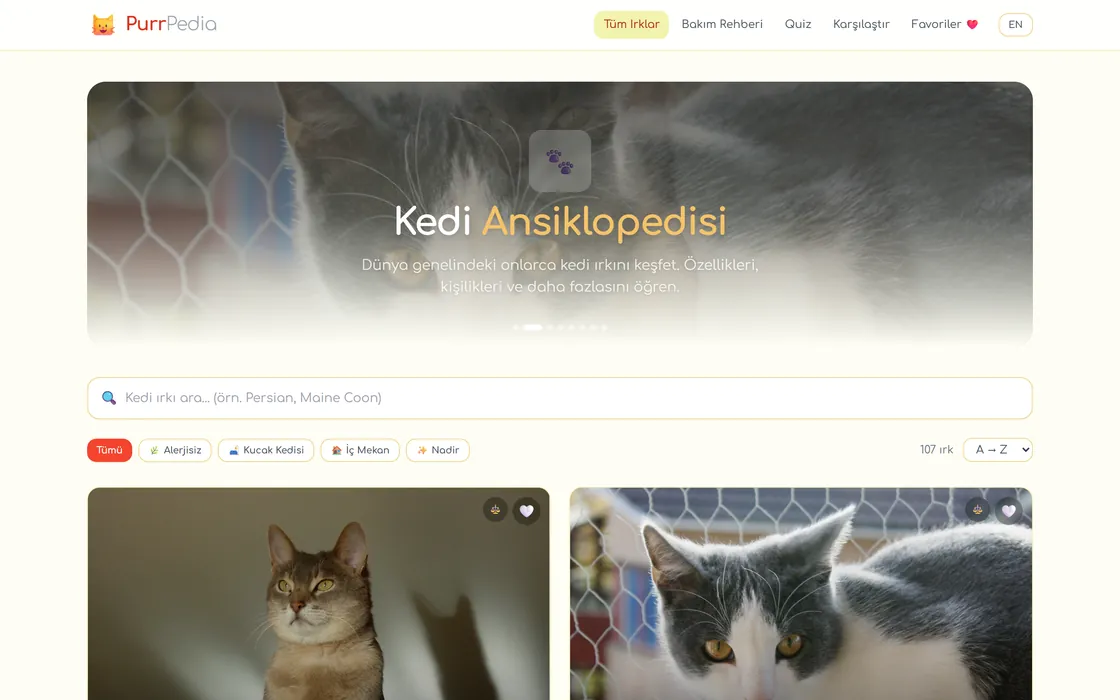
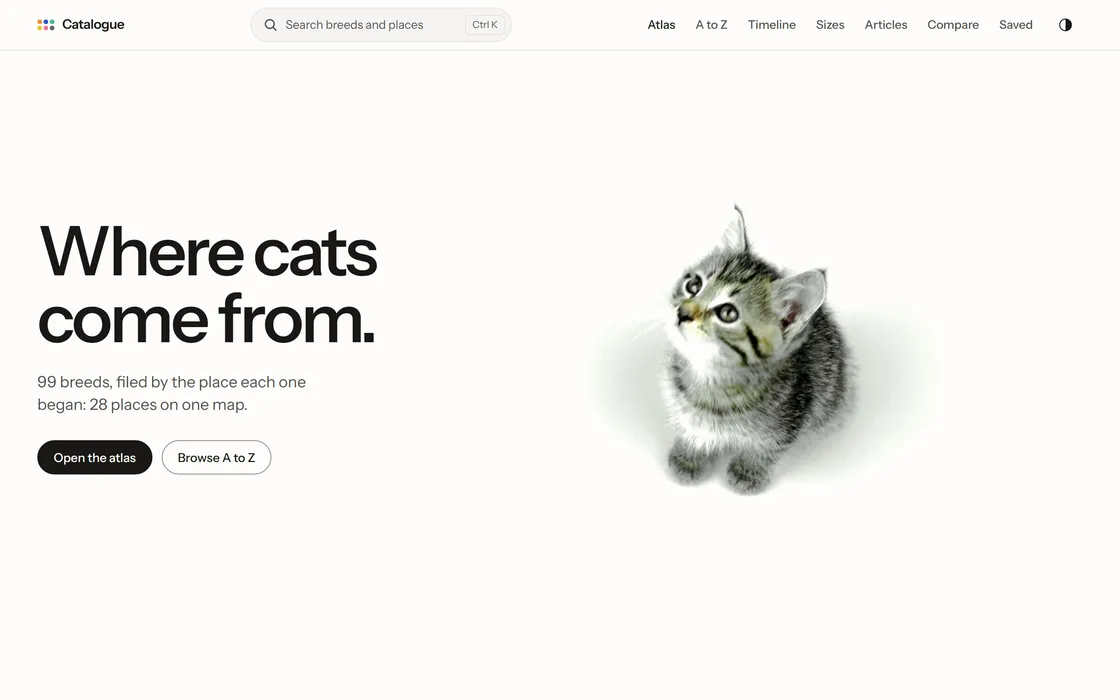
List Purr Pedia as Catalogue

diff --git a/lib/projects.ts b/lib/projects.ts
@@ -320,16 +320,16 @@ export const PROJECTS: Project[] = [
   },
   {
     id: 'purrpedia',
-    name: 'Purr Pedia',
-    kind: { en: 'Reference app', tr: 'Başvuru uygulaması' },
+    name: 'CATALOGUE',
+    kind: { en: 'Breed atlas', tr: 'Irk atlası' },
     standing: 'concept',
     blurb: {
-      en: 'Cat breed encyclopedia with search, side-by-side comparison and a quiz. Installable.',
-      tr: 'Arama, yan yana karşılaştırma ve test içeren kedi ırkları ansiklopedisi. Kurulabilir.',
+      en: 'Cat breeds filed by where each began: a map that tours six regions as you scroll, a timeline and sourced articles.',
+      tr: 'Kedi ırkları, çıktıkları yere göre dizili: kaydırdıkça altı bölgeyi gezen bir harita, zaman çizelgesi ve kaynaklı yazılar.',
     },
-    stack: ['React 18', 'TypeScript', 'Redux Toolkit', 'PWA'],
+    stack: ['Next.js 16', 'React 19', 'TypeScript', 'Tailwind CSS 4', 'Zustand'],
     started: '2026-03',
-    rev: 'A',
+    rev: 'B',
     live: 'https://purr-pedia.vercel.app/',
     code: gh('Purr-Pedia'),
   },

diff --git a/lib/content.ts b/lib/content.ts
@@ -244,8 +244,8 @@ export const PATH_SOFTWARE: PathRow[] = [
   {
     date: { en: '2026-10', tr: '2026-10' },
     text: {
-      en: 'Rainbow Design running on its own domain, rainbowdesign.com.tr. Book-Shelf rebuilt as Shelfmark, Psychologist Services as FIFTY.',
-      tr: 'Rainbow Design kendi alan adında çalışıyor: rainbowdesign.com.tr. Book-Shelf, Shelfmark olarak; Psychologist Services, FIFTY olarak yeniden kuruldu.',
+      en: 'Rainbow Design running on its own domain, rainbowdesign.com.tr. Book-Shelf rebuilt as Shelfmark, Psychologist Services as FIFTY, Purr Pedia as Catalogue.',
+      tr: 'Rainbow Design kendi alan adında çalışıyor: rainbowdesign.com.tr. Book-Shelf, Shelfmark olarak; Psychologist Services, FIFTY olarak; Purr Pedia, Catalogue olarak yeniden kuruldu.',
     },
   },
 ];
